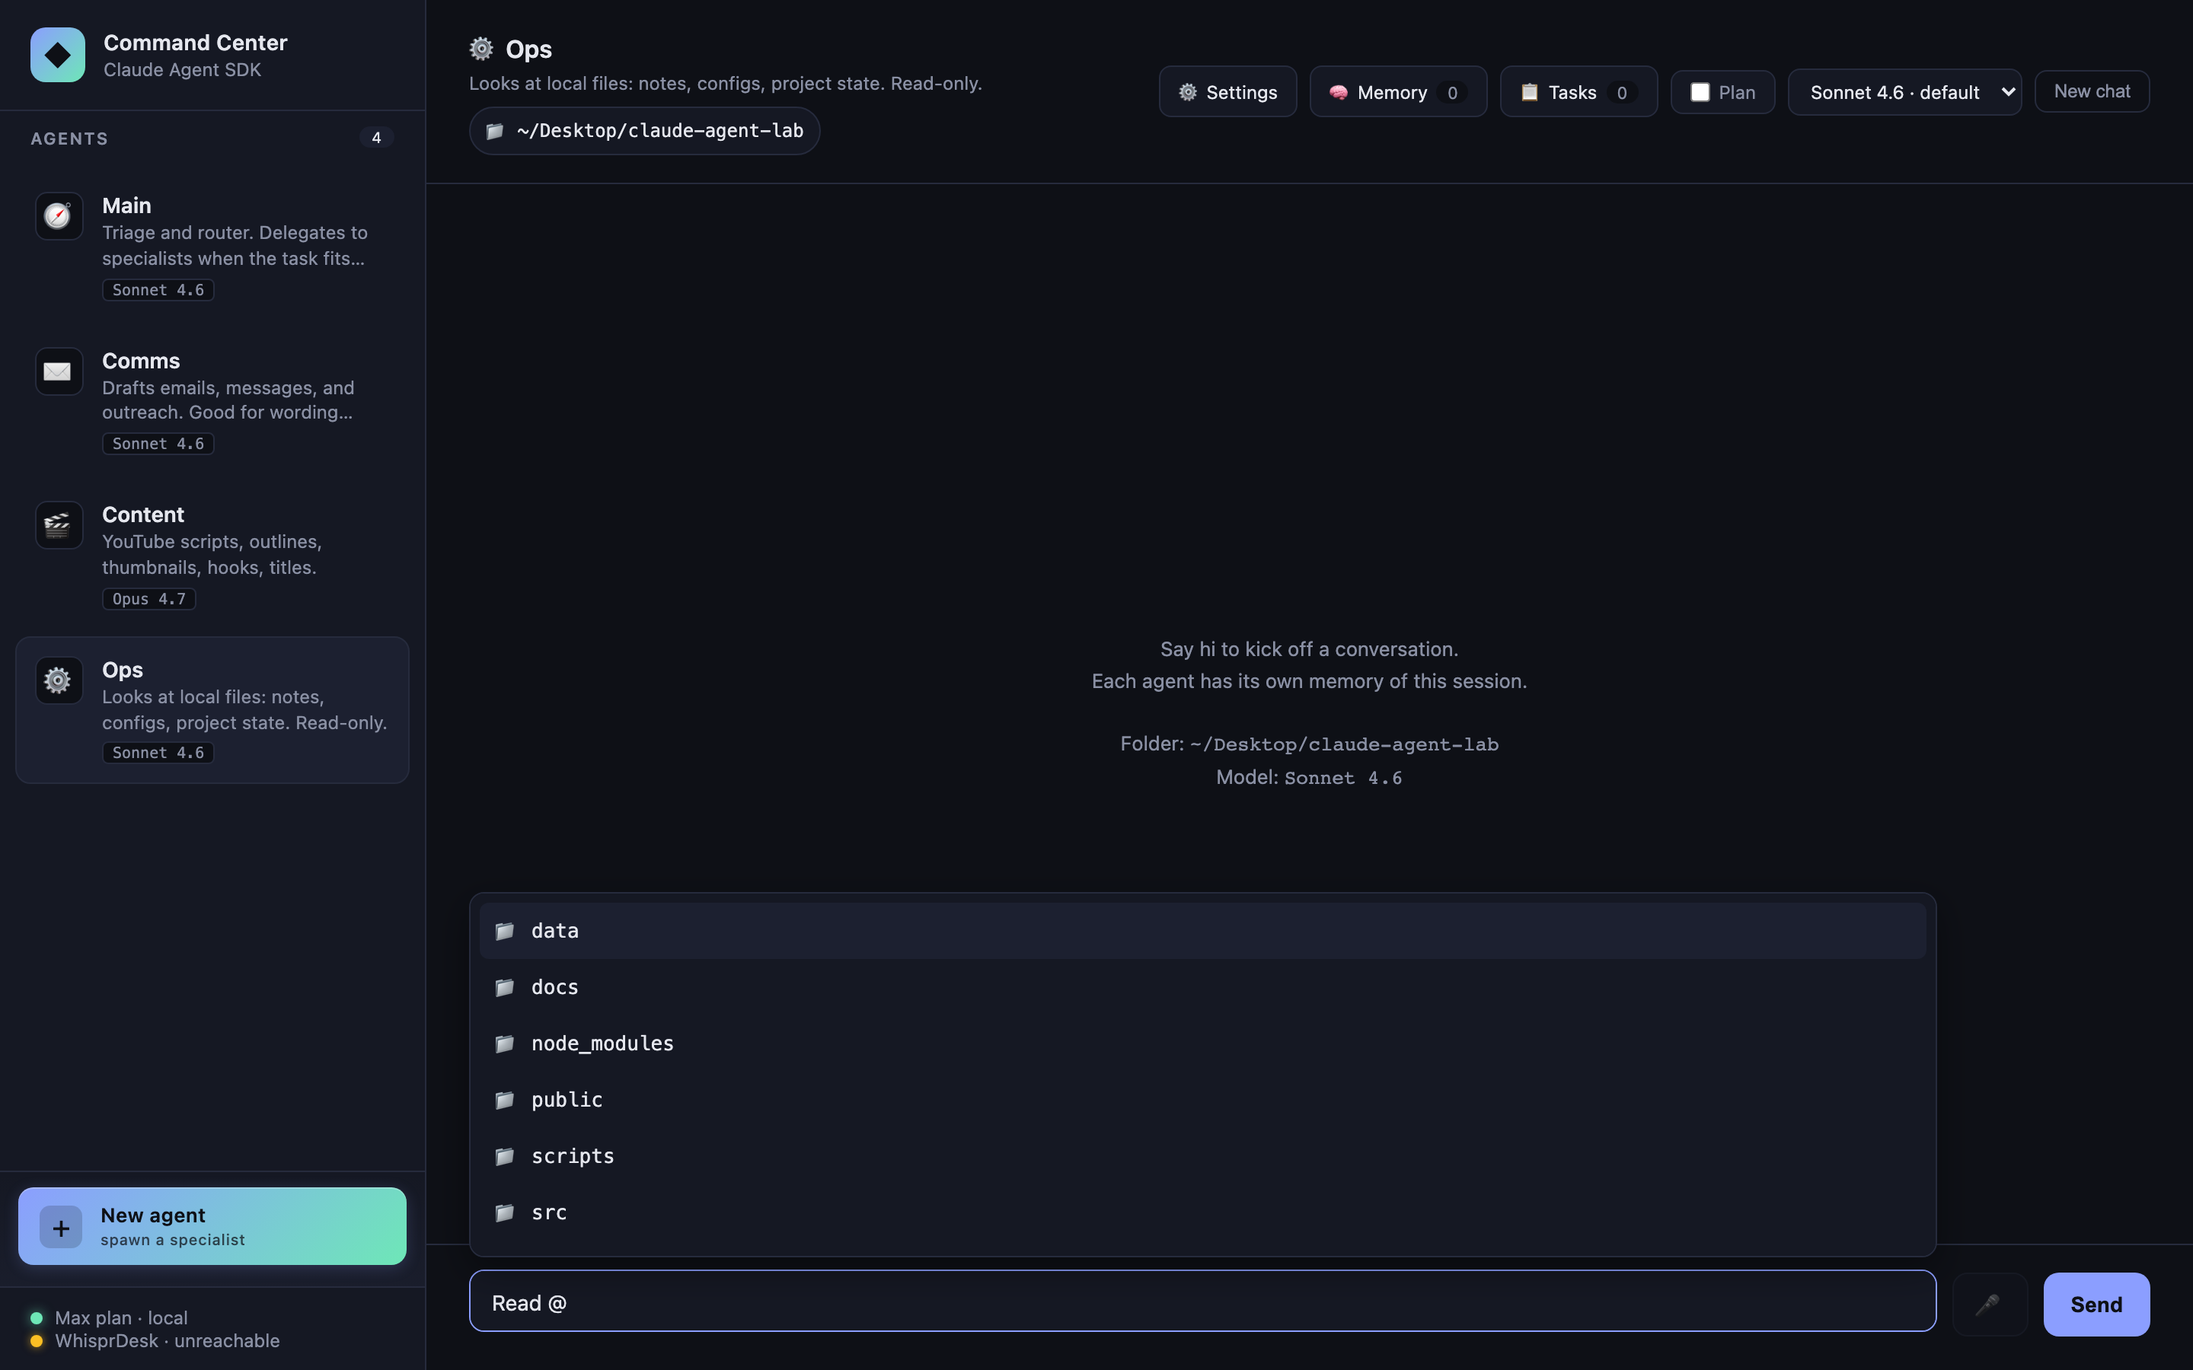
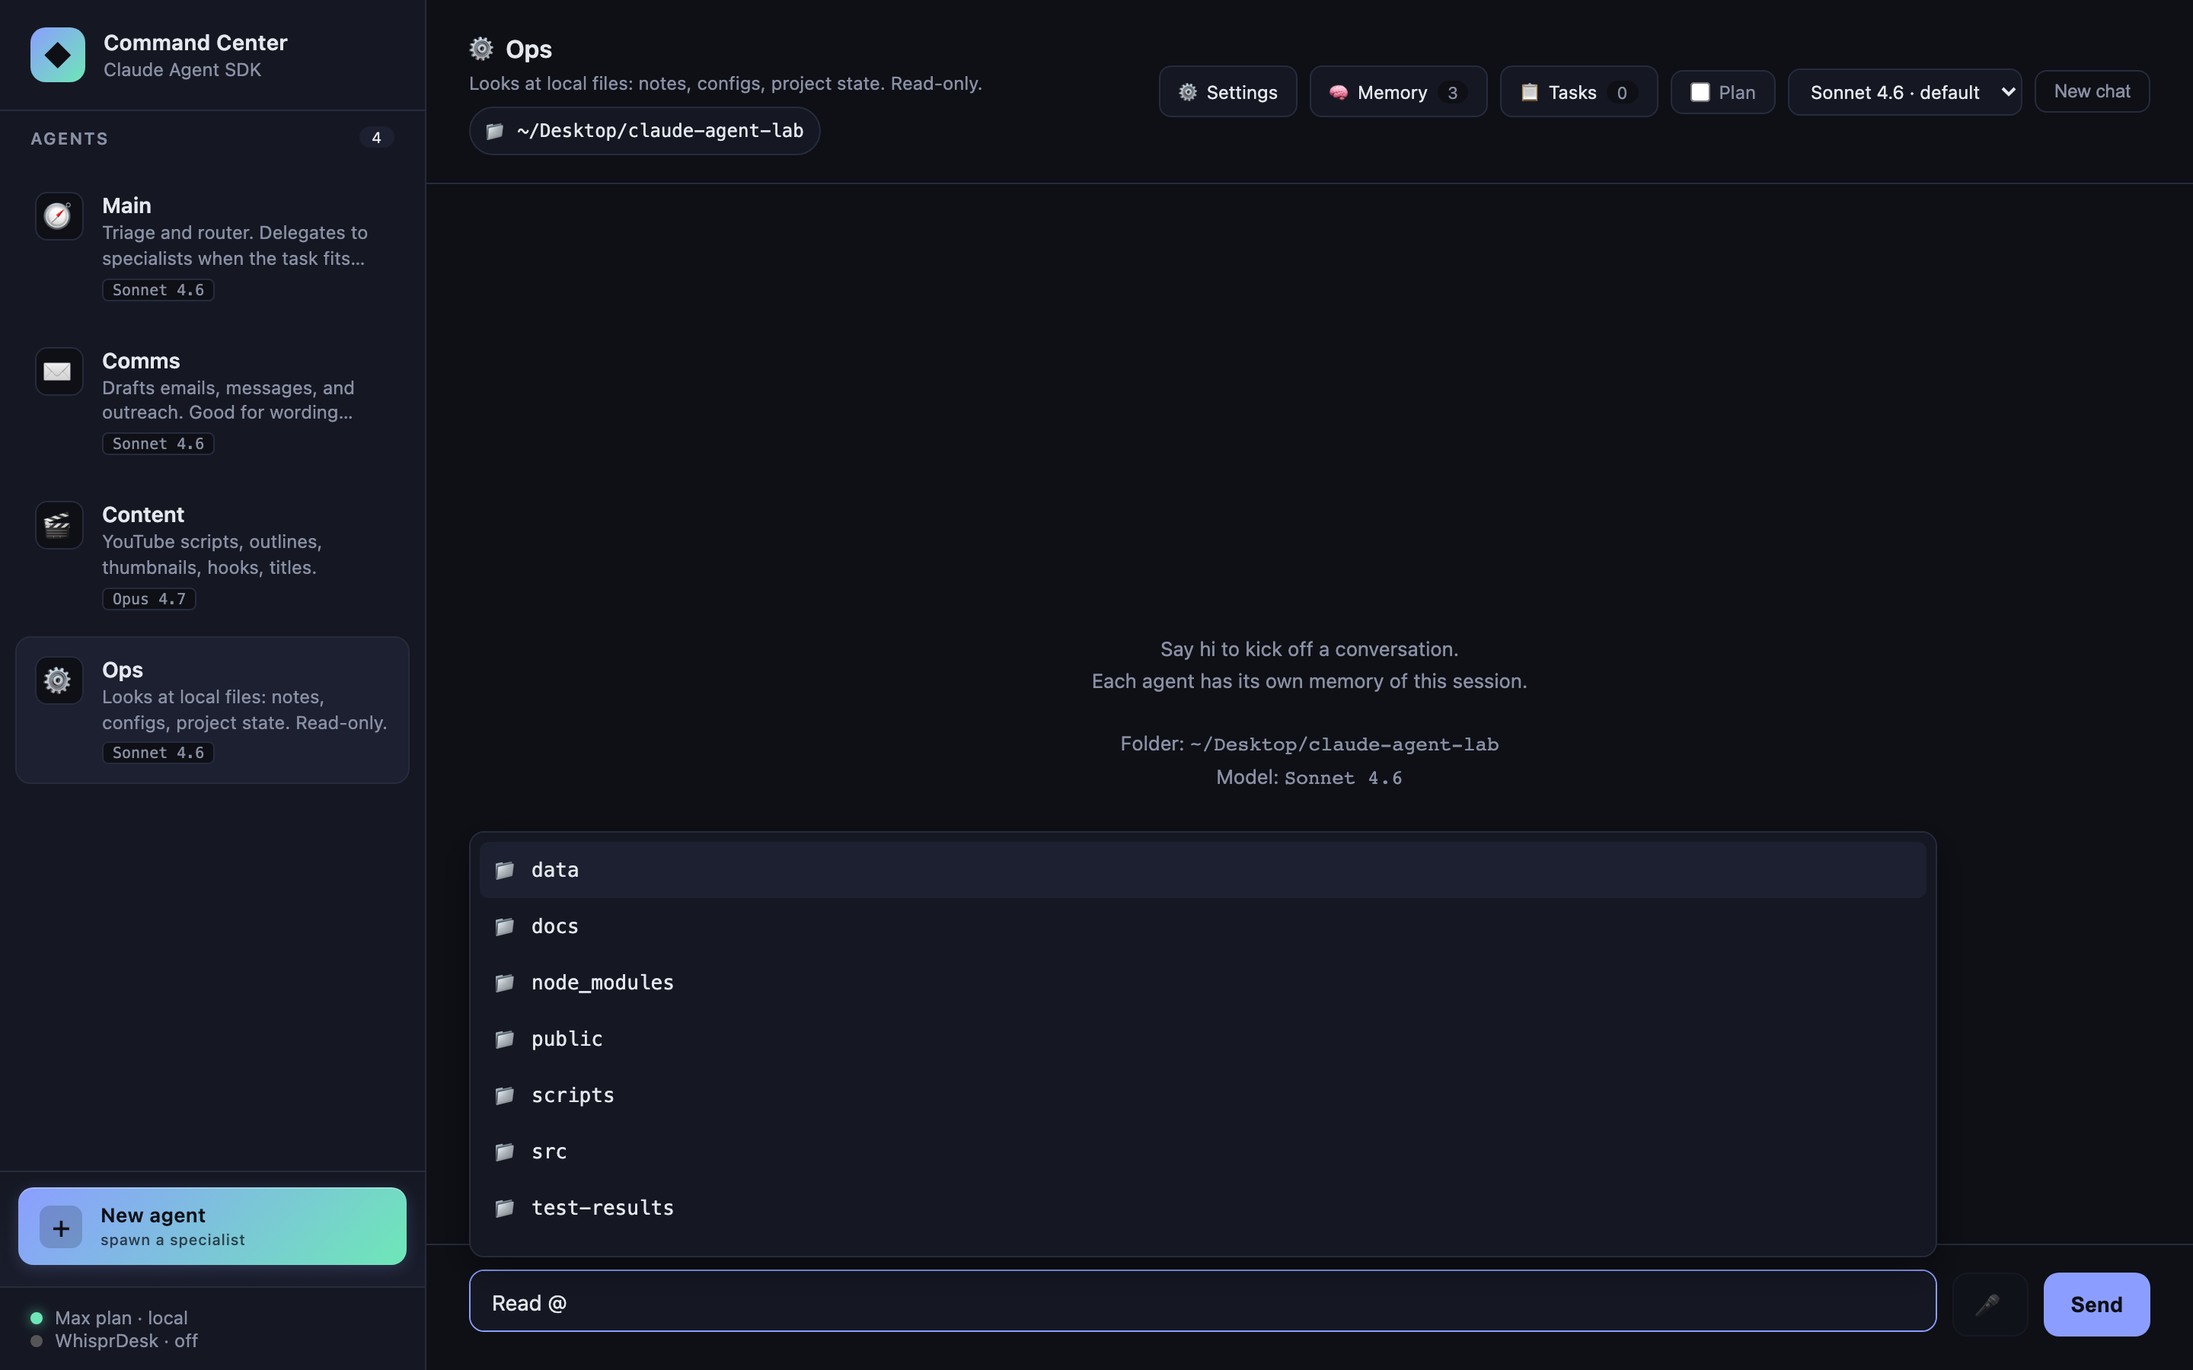
README: refresh all screenshots + add WhisprDesk marketing CTA
Screenshots regenerated to match the current UI — sidebar section
header, gradient "New agent" button, Settings/Memory/Tasks/Plan in
the chat header, WhisprDesk status indicator in the sidebar footer.
Old /docs/screenshots/command-center.png removed (superseded by
01-overview.png).

New captures:
  10-settings-modal.png   — WhisprDesk section + Telegram "coming soon"
  11-slash-popover.png    — the slash-command autocomplete we just shipped
  12-new-agent-editor.png — the agent editor with a partial "Research"
                            agent filled in (emoji, name, desc, tools,
                            system prompt) — shows readers what the
                            CRUD surface actually looks like

Screenshot script (scripts/screenshot.mjs) hardened to clear any
test-leftover settings before snapping the Settings modal, so the
public PNG doesn't leak stale values like ":9999" or masked tokens
from the last Playwright run.

README changes:

- Badge: tests 9_passing → 21_passing
- Intro: lists the full current capability set (custom agents,
  settings UI, voice) and updates LOC to ~2,200
- Features-at-a-glance table: added Custom agents (CRUD),
  Settings panel; removed File checkpointing (flag pulled in the
  audit sweep); merged slash commands + autocomplete into one row
- Multi-agent sidebar: mentions the prominent + New agent button
- NEW section: Custom agents (CRUD) with agent-editor screenshot
  and full explanation of SQLite registry + built-in protection
[…]

diff --git a/README.md b/README.md
@@ -3,11 +3,11 @@
 [![License: MIT](https://img.shields.io/badge/License-MIT-blue.svg)](LICENSE)
 [![Claude Agent SDK](https://img.shields.io/badge/built_on-Claude_Agent_SDK-8b9eff)](https://code.claude.com/docs/en/agent-sdk/overview)
 [![TypeScript](https://img.shields.io/badge/TypeScript-ESM-3178c6)](https://www.typescriptlang.org/)
-[![Tests](https://img.shields.io/badge/tests-9_passing-6ee7b7)](./tests)
+[![Tests](https://img.shields.io/badge/tests-21_passing-6ee7b7)](./tests)
 
-A small, hackable **multi-agent dashboard** built directly on Anthropic's official [Claude Agent SDK](https://code.claude.com/docs/en/agent-sdk/overview). Four specialized agents in a browser UI, each with its own system prompt, tool allowlist, and model. A router agent that delegates to specialists. A task board with Haiku-powered auto-routing. Token-by-token streaming. Folder scoping. `@file` autocomplete.
+A small, hackable **multi-agent dashboard** built directly on Anthropic's official [Claude Agent SDK](https://code.claude.com/docs/en/agent-sdk/overview). Four built-in specialists plus **unlimited custom agents** you spawn from the sidebar, each with its own system prompt, tool allowlist, and model. A router that delegates to specialists. Task board with Haiku-powered auto-routing. Token-by-token streaming. Folder scoping. `@file` and `/command` autocomplete. Persistent SQLite memory. Settings UI for integrations. Voice I/O via [WhisprDesk](https://whisprdesk.com/).
 
-All in ~1,800 lines of hand-written code — because most of the work is already inside the SDK.
+All in ~2,200 lines of hand-written code — because most of the work is already inside the SDK.
 
 ![Command Center — overview](docs/screenshots/01-overview.png)
 
@@ -32,6 +32,7 @@ Each feature maps to **one or two options** on the SDK's `query()` call. Reading
 | Feature | SDK primitive |
 |---|---|
 | [Multi-agent sidebar](#multi-agent-sidebar) | `systemPrompt`, `allowedTools` per call |
+| [Custom agents (CRUD)](#custom-agents-crud) | SQLite-backed registry merged with built-ins at runtime |
 | [Sub-agent delegation](#sub-agent-delegation) | `agents: Record<string, AgentDefinition>` + `Agent` tool |
 | [Token-by-token streaming](#token-by-token-streaming) | `includePartialMessages: true` → `stream_event` messages |
 | [Folder scoping](#folder-scoping) | `cwd` |
@@ -39,9 +40,9 @@ Each feature maps to **one or two options** on the SDK's `query()` call. Reading
 | [Task queue with auto-routing](#task-queue-with-auto-routing) | One-shot Haiku `query()` as a classifier |
 | [Markdown rendering](#markdown-rendering) | Not SDK — `marked` + `DOMPurify` + `highlight.js` on completed replies |
 | [Persistent memory (SQLite)](#persistent-memory-sqlite) | Injected into `systemPrompt` on every call |
-| [Slash commands](#slash-commands) | Client-side interception before POST |
+| [Settings panel](#settings-panel) | DB-backed config with env-var fallback |
+| [Slash commands + autocomplete](#slash-commands) | Client-side interception + live popover |
 | [Plan mode toggle](#plan-mode-toggle) | `permissionMode: 'plan'` |
-| [File checkpointing](#file-checkpointing) | `enableFileCheckpointing: true` (snapshots enabled; UI rewind pending) |
 | [Voice in/out via WhisprDesk](#voice-in--out-via-whisprdesk) | Not SDK — proxy to local WhisprDesk gateway + browser `SpeechSynthesis` |
 | [Abort on client disconnect](#abort-on-client-disconnect) | `abortController: AbortController` |
 | [Multi-turn per agent](#multi-turn-per-agent) | `resume: sessionId` captured from `system.init` |
@@ -51,14 +52,29 @@ Each feature maps to **one or two options** on the SDK's `query()` call. Reading
 
 ### Multi-agent sidebar
 
-Four agents, each defined by a ~20-line object in [`src/agents.ts`](src/agents.ts): `systemPrompt`, `allowedTools`, `model`, and a bit of UI metadata (emoji, accent color). Click an agent → chat with them. Each agent keeps its own conversation.
+Four built-in specialists, each defined by a ~20-line object in [`src/agents.ts`](src/agents.ts): `systemPrompt`, `allowedTools`, `model`, and UI metadata (emoji, accent). Click one → chat. Each agent keeps its own conversation with its own session ID.
 
 - **🧭 Main** — triage + router, no direct tools
 - **✉ Comms** — drafts messages, `WebFetch`
-- **🎬 Content** — YouTube / long-form writing, `WebSearch` + `WebFetch`, **Opus 4.7** (creative work gets the best model)
+- **🎬 Content** — YouTube / long-form writing, `WebSearch` + `WebFetch`, **Opus 4.7**
 - **⚙ Ops** — reads local files in the selected folder, `Read` / `Glob` / `Grep`, read-only
 
-Adding a fifth is one object in `agents.ts` — no server changes needed.
+The bottom of the sidebar has a prominent gradient **+ New agent** button — spawning specialists is a first-class operation, not a hidden escape hatch.
+
+---
+
+### Custom agents (CRUD)
+
+![New agent editor](docs/screenshots/12-new-agent-editor.png)
+
+Click **+ New agent** to open a full editor: name, emoji, accent color, one-line description, default model, tool checkboxes (all 12 SDK-known tools), router flag, and system prompt. Saves to SQLite (`data/lab.db`) and merges with the built-ins at runtime via a unified agent registry.
+
+- **Edit** any custom agent via the ✎ that appears on hover in the sidebar
+- **Delete** via the same editor (built-ins are read-only — they return 400 on PATCH/DELETE)
+- Custom agents participate in **everything**: streaming, sessions, memory injection, folder scoping, plan mode, sub-agent delegation. If you flag one as a router, Main's delegation list grows to include it
+- Agent id is slug-generated from the name; collision-resolved automatically
+
+Your Main/Comms/Content/Ops defaults stay in TypeScript (you can edit them there). Anything you spawn from the UI goes in SQLite. Best of both: version-controlled baseline + user-editable extras.
 
 ---
 
@@ -166,15 +182,20 @@ Context:
 
 ### Slash commands
 
-Type `/` as the first character and the client-side dispatcher handles it without a server round-trip:
+![Slash command autocomplete popover](docs/screenshots/11-slash-popover.png)
+
+Type `/` and a **live autocomplete popover** appears above the composer — same interaction model as the `@file` popover. ↑↓ to navigate, Tab to complete, Enter to run, Escape to dismiss. Narrows as you type (`/th` → 3 `/think` variants).
 
 | Command | Effect |
 |---|---|
 | `/help` | List all commands |
-| `/clear` | New conversation with this agent (same as header button) |
+| `/clear` | New conversation with this agent |
+| `/agents` | List all agents with their descriptions and default models |
 | `/model` | Show current model + available options |
 | `/model <id>` | Switch model for this agent. Aliases: `opus`, `sonnet`, `haiku` |
-| `/agents` | List all agents with their descriptions and default models |
+| `/think hard` | Ergonomic alias: switch to Opus 4.7 (careful reasoning) |
+| `/think fast` | Alias: switch to Haiku 4.5 (snappy, cheap) |
+| `/think default` | Reset to the agent's configured default |
 | `/plan on\|off` | Toggle plan mode for this agent |
 
 Output renders as a system-origin message in the chat log with full markdown formatting.
@@ -189,32 +210,45 @@ Per-agent state. Switching plan mode clears that agent's session (the SDK treats
 
 ---
 
-### File checkpointing
+### Settings panel
 
-`enableFileCheckpointing: true` is set on every `query()` call. The SDK now **snapshots files before any Edit/Write** so they can be restored. The UI "roll back to this turn" affordance is on the backlog — the snapshot infrastructure is already live as of this version, so when rewind ships you'll be able to rewind turns that happened today.
+![Settings modal](docs/screenshots/10-settings-modal.png)
+
+A ⚙ **Settings** button in the header opens a modal backed by a SQLite `settings` table (`key`, `value`, `is_secret`, `updated_at`). Every integration surfaces here instead of being hidden behind `.env` edits. Current sections:
+
+- **WhisprDesk** — Gateway URL + Bearer token + live **Test connection** button
+- **Telegram bridge** *(coming soon)* — the fields render with a disabled state and a "coming soon" badge until the C05 bridge ships; saving is deliberately blocked so no one gets the broken-promise experience
+
+Secrets never round-trip to the browser: the UI shows a masked preview (`••••c123`), leaving a secret field blank keeps the existing value, and the raw token stays server-side for every proxied request. Values saved in the DB override matching env vars automatically — you can still paste tokens into `.env` for headless deploys.
 
 ---
 
 ### Voice in / out via WhisprDesk
 
-If you have [WhisprDesk](https://github.com/jaysidd/WhisprDesk) running locally (a personal Whisper-based dictation app by the same author), Command Center integrates with it in two ways:
+If you have [**WhisprDesk**](https://whisprdesk.com/) running locally, Command Center integrates with it in three ways out of the box:
+
+![Command Center overview showing the WhisprDesk status indicator](docs/screenshots/01-overview.png)
 
 **Active mode (mic button):** A 🎤 button next to Send records audio via `MediaRecorder`, POSTs the blob to `POST /api/whisprdesk/transcribe` (server-side proxy that adds the Bearer header), and drops the transcript into the composer.
 
-**Passive mode (SSE listener):** When configured, the server subscribes to WhisprDesk's `/v1/events` SSE stream. Any dictation you do *anywhere* on your machine via WhisprDesk's native push-to-talk shortcut — if Command Center is the focused tab — auto-fills the composer. You keep your existing dictation muscle memory and never touch the browser mic.
+**Passive mode (SSE listener):** The server subscribes to WhisprDesk's `/v1/events` stream. Any dictation you do *anywhere* on your Mac via WhisprDesk's native push-to-talk shortcut — as long as Command Center is the focused tab — auto-fills the composer. You keep the muscle memory; the lab just steals the transcript.
 
-**Voice out:** Each agent reply gets a 🔊 button in its footer that uses the browser's built-in `SpeechSynthesis` API to read the reply aloud. Click again to stop.
+**Voice out:** Each agent reply gets a 🔊 button that uses the browser's built-in `SpeechSynthesis` API to read the reply aloud. Click again to stop.
 
-**Setup.** Copy the Bearer token from WhisprDesk's Settings → *External App Gateway* card into your `.env`:
+**Setup.** Open ⚙ **Settings** → WhisprDesk section → paste the Bearer token from WhisprDesk's *External App Gateway* card → Save. The sidebar footer flips from `WhisprDesk · off` to `· ready` within a second. The 🎤 button enables. No restart needed.
 
-```
-WHISPRDESK_URL=http://127.0.0.1:9879
-WHISPRDESK_TOKEN=paste-bearer-token-here
-```
-
-Restart the server. The footer of the sidebar shows `WhisprDesk · ready` when the proxy is live and WhisprDesk is reachable, `· unreachable` if it's configured but offline, or `· off` if no token is configured.
-
-**Why this architecture.** Whisper is the best open-source STT available; running it locally means audio never leaves your machine. Rather than re-embedding Whisper in Command Center, we lean on WhisprDesk's existing gateway — one install, two apps sharing it. The token stays server-side; the browser only sees the proxy.
+> ### 🎙 Don't have WhisprDesk yet?
+>
+> **WhisprDesk** is a local-first macOS dictation app built on the same open-source Whisper engine OpenAI released. It runs entirely on your Mac — audio never leaves the machine — and gives you a system-wide push-to-talk shortcut that works in any text field across any app.
+>
+> - 🔒 **Local-only** — no cloud, no accounts, no telemetry
+> - ⚡ **Real-time** — transcription lands as you speak
+> - 🧩 **Open gateway** — the same External App Gateway Command Center uses, so any app you write can plug in
+> - 💲 **One-time $29** — no subscription, no seat pricing, lifetime updates
+>
+> **→ Grab it at [whisprdesk.com](https://whisprdesk.com/)**
+>
+> *Disclosure: WhisprDesk is by the same author as this lab. Full disclosure and worth saying explicitly: the integration in this README works with any future Whisper-exposing HTTP gateway that matches the shape — it's not proprietary lock-in. WhisprDesk is just the cleanest shipped one I know of.*
 
 ---
 
@@ -621,9 +655,10 @@ This repo is **not** a product. If you turn it into one, switch to API keys and 
 
 ## What's on the backlog
 
-The current implementation covers F1–F7 foundation + C01–C11 and partial C12 (checkpointing infra). See [`backlog.md`](backlog.md) for the full sequential list. Top candidates for the next sessions:
+The current implementation covers F1–F7 foundation + C01–C15 (streaming, delegation, tasks, markdown, memory, slash commands + popover, plan mode, WhisprDesk, Settings, custom agents). See [`backlog.md`](backlog.md) for the full sequential list. Top candidates for the next sessions:
 
-- **File rewind UI** (C12 completion) — the `enableFileCheckpointing: true` infrastructure is already live; what's missing is persisting the Query object across requests via streaming-input mode so `rewindFiles(userMessageId)` can be called on-demand. Needs a session-model refactor.
+- **C05 Telegram bridge** — Settings fields are already live (disabled pending code). Need: long-poll listener, allowlist enforcement, routing to selected agent. Unblocks "agents on your phone."
+- **C12 File rewind UI** — requires refactoring the chat lifecycle to streaming-input mode so the SDK `Query` object stays alive across requests and `Query.rewindFiles(userMessageId)` can be invoked from a button on each user message.
 - **Cost & token tracking** — read usage from the SDK's `ResultMessage` and surface per-turn + session-total token/cost.
 - **Telegram / Discord bridge** — same engine, additional interface; pairs with slash commands already in place.
 - **Session history sidebar** — persist conversations across restarts (memory exists, chats don't yet).
@@ -655,7 +690,8 @@ The six-role dev-team convention the repo uses (Architect → Developer → Revi
 ## Acknowledgements
 
 - **Anthropic** for the [Claude Agent SDK](https://code.claude.com/docs/en/agent-sdk/overview) and for making `@anthropic-ai/claude-agent-sdk` open and approachable.
-- The YouTuber who demonstrated a command-center pattern on top of OpenCode and got me thinking about how thin this layer could actually be when Claude is the target model.
+- **[WhisprDesk](https://whisprdesk.com/)** — the one-time-$29 local Whisper dictation app that Command Center's voice layer integrates with. Audio stays on your Mac; the gateway pattern means *any* app on your machine can share the STT pipeline.
+- The YouTuber who demonstrated a command-center pattern on top of OpenClaw and got me thinking about how thin this layer could actually be when Claude is the target model.
 - [OpenCode](https://github.com/sst/opencode) for being the right answer to "what if I need multi-provider?"
 
 ---
